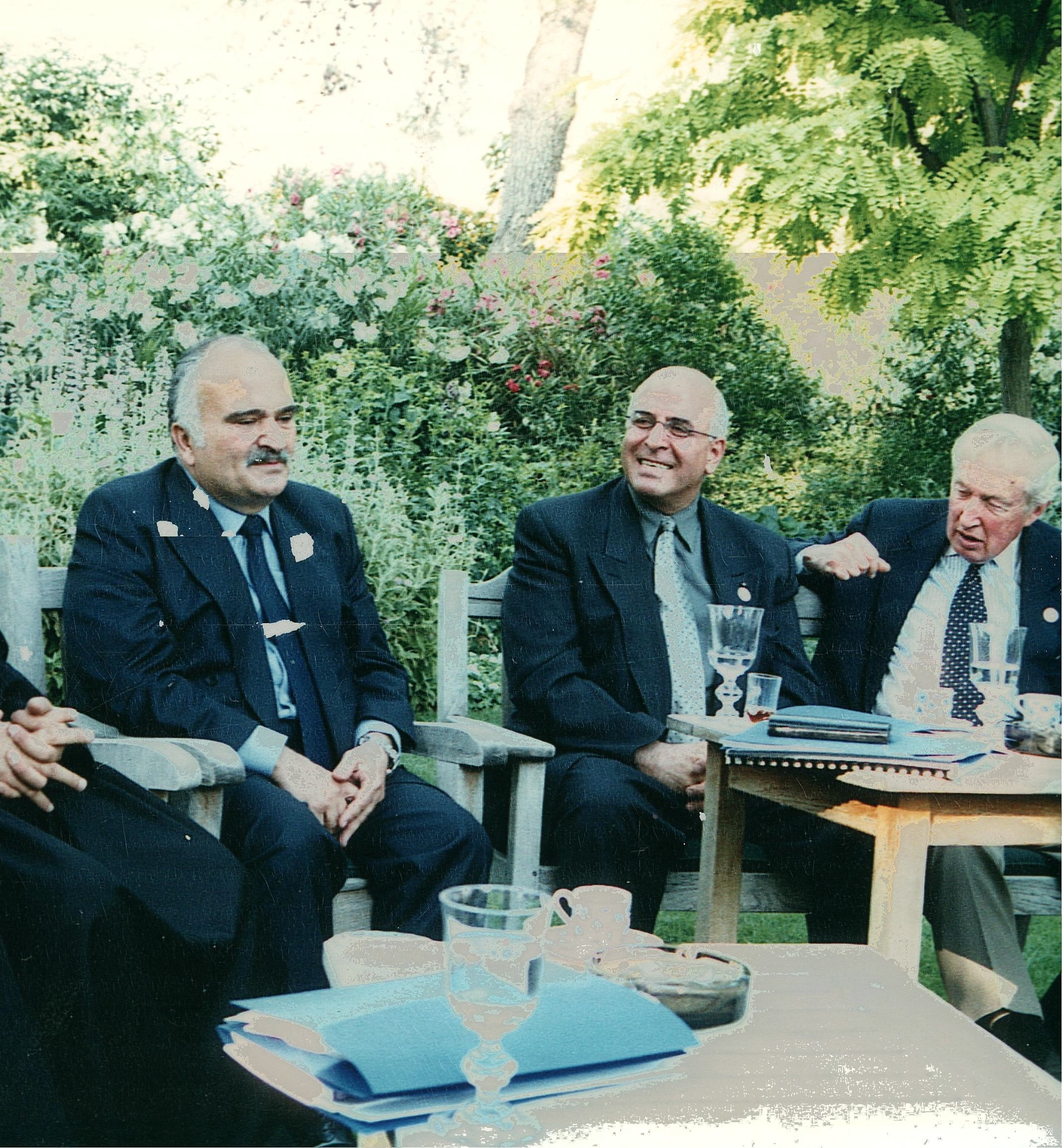
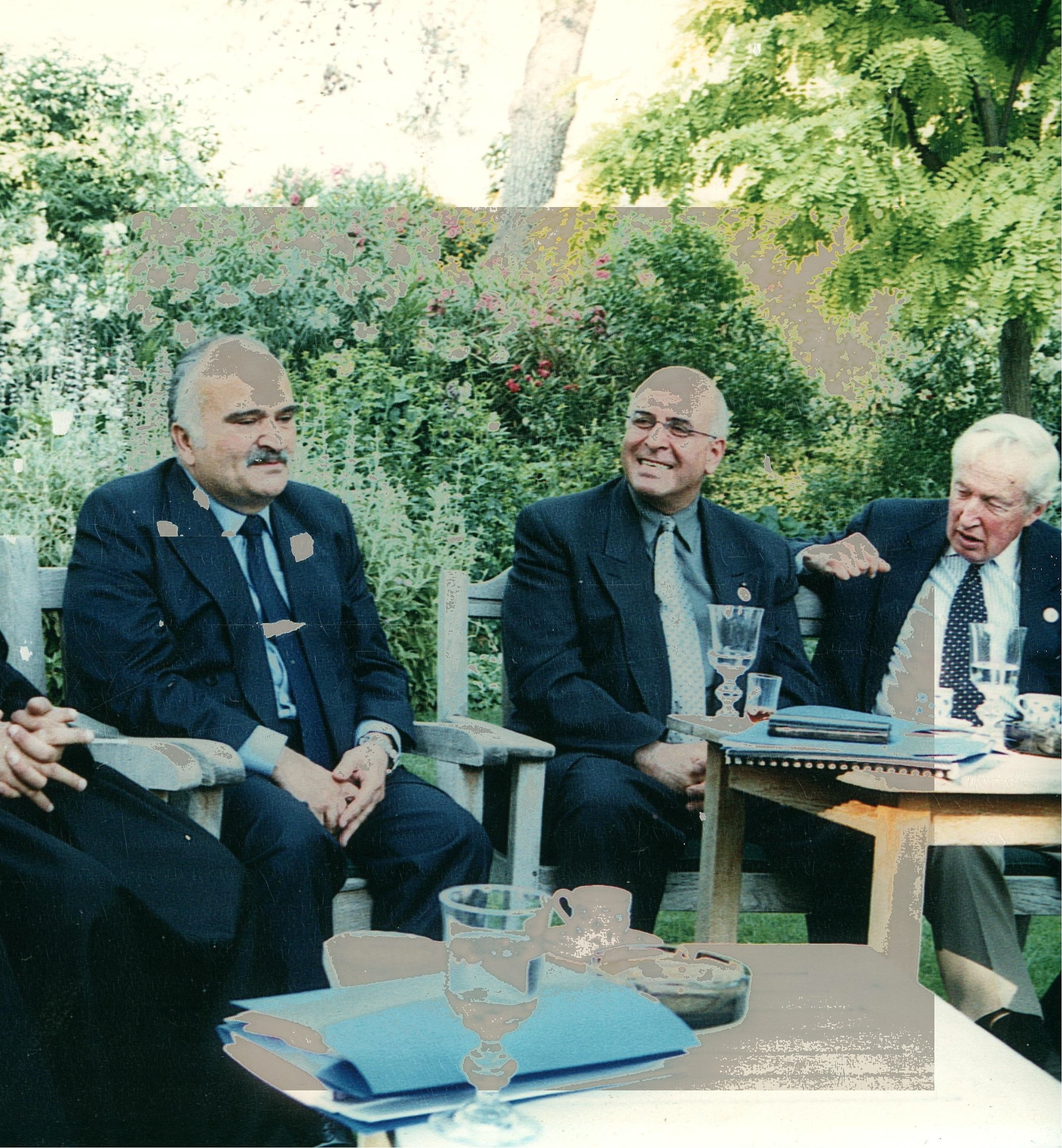
Polish hero gallery per client feedback notes
Enforce 66/33 layout, fix portrait visibility, strengthen suit retouch on Prince Hassan slide, sync 21 slides from docx and live site without duplicates, and correct Hassan caption title.

diff --git a/src/components/Hero.module.css b/src/components/Hero.module.css
@@ -42,8 +42,8 @@
   position: relative;
   z-index: 1;
   display: grid;
-  /* 2/3 gallery, 1/3 portrait — matches live site */
-  grid-template-columns: minmax(0, 2fr) minmax(0, 1fr);
+  /* 2/3 gallery, 1/3 portrait */
+  grid-template-columns: minmax(0, 66.666%) minmax(0, 33.333%);
   align-items: center;
   gap: clamp(1rem, 2vw, 2rem);
   width: min(1440px, 96vw);
@@ -97,7 +97,6 @@
   user-select: none;
   -webkit-user-drag: none;
   filter: drop-shadow(0 20px 56px rgba(0, 0, 0, 0.45));
-  mix-blend-mode: lighten;
 }
 
 @media (max-width: 1024px) {

diff --git a/src/components/HeroSlider.module.css b/src/components/HeroSlider.module.css
@@ -24,8 +24,8 @@
 .viewport {
   position: relative;
   width: 100%;
-  aspect-ratio: 16 / 10;
-  max-height: min(62vh, 560px);
+  aspect-ratio: 4 / 3;
+  max-height: min(68vh, 620px);
   border-radius: 14px;
   overflow: hidden;
   background: linear-gradient(160deg, #0a2248 0%, #051a42 100%);

diff --git a/scripts/fetch-live-hero-slides.py b/scripts/fetch-live-hero-slides.py
@@ -10,7 +10,7 @@ OUT = ROOT / "src/assets/hero-slides"
 MANIFEST = ROOT / "src/data/heroSlides.manifest.json"
 HOME = "https://rateb.rabie.us/"
 
-# Extra slides on live site (beyond docx) — title + URL
+# Live revslider backgrounds not always in docx
 EXTRA_SLIDES = [
     {
         "title": "Official meeting with President Mahmoud Abbas of Palestine",
@@ -28,27 +28,40 @@ EXTRA_SLIDES = [
         "title": "Leadership dialogue with distinguished guests",
         "url": "https://rateb.rabie.us/wp-content/uploads/2026/02/2222222.jpeg",
     },
+    {
+        "title": "Community engagement and humanitarian outreach",
+        "url": "https://rateb.rabie.us/wp-content/uploads/2026/02/Gemini_Generated_Image_6wgbok6wgbok6wgb.png",
+    },
+    {
+        "title": "Advocacy for peace, justice, and dignity",
+        "url": "https://rateb.rabie.us/wp-content/uploads/2026/02/Gemini_Generated_Image_x1ohy9x1ohy9x1oh.png",
+    },
+    {
+        "title": "Institutional leadership and public service",
+        "url": "https://rateb.rabie.us/wp-content/uploads/2025/04/1111113.jpg",
+    },
 ]
 
-# Replace docx slides with higher-res live versions when available
-UPGRADES = {
-    "slide-01.png": "https://rateb.rabie.us/wp-content/uploads/2025/03/WhatsApp-Image-2025-03-24-at-4.12.52-PM-2.jpeg",
-    "slide-02.png": "https://rateb.rabie.us/wp-content/uploads/2025/03/WhatsApp-Image-2025-03-24-at-4.12.52-PM-1-1.jpeg",
-    "slide-03.png": "https://rateb.rabie.us/wp-content/uploads/2025/03/Prince-Hassan.jpg",
-    "slide-07.png": "https://rateb.rabie.us/wp-content/uploads/2025/03/King-Hussain-of-Jordan-1952-to-1999-scaled.jpg",
-    "slide-08.png": "https://rateb.rabie.us/wp-content/uploads/2025/03/King-Abdulla-II-of-Jordan.jpg",
-    "slide-04.png": "https://rateb.rabie.us/wp-content/uploads/2025/03/President-Yaser-Arafat-at-his-Office.jpg",
-    "slide-05.png": "https://rateb.rabie.us/wp-content/uploads/2025/03/President-Yaser-Arafat-presenting-a-Mother-of-Pear-for-HCEF.jpg-2-scaled.jpg",
-    "slide-06.png": "https://rateb.rabie.us/wp-content/uploads/2025/03/Presiden-Yaser-Arafat-Receiving-HCEF-Delgation-.jpg",
-    "slide-10.png": "https://rateb.rabie.us/wp-content/uploads/2025/03/King-Abdulla-II-First-meeting-1-scaled.jpg",
-    "slide-11.png": "https://rateb.rabie.us/wp-content/uploads/2025/03/Honoing-Dr.-Marwan-Muasher-the-former-Deputy-Prime-minister-of-Jordan-4.jpg",
+# slide index (1-based) -> live full-res URL
+UPGRADES_BY_ID = {
+    1: "https://rateb.rabie.us/wp-content/uploads/2025/03/WhatsApp-Image-2025-03-24-at-4.12.52-PM-2.jpeg",
+    2: "https://rateb.rabie.us/wp-content/uploads/2025/03/WhatsApp-Image-2025-03-24-at-4.12.52-PM-1-1.jpeg",
+    3: "https://rateb.rabie.us/wp-content/uploads/2025/03/Prince-Hassan.jpg",
+    4: "https://rateb.rabie.us/wp-content/uploads/2025/03/President-Yaser-Arafat-at-his-Office.jpg",
+    5: "https://rateb.rabie.us/wp-content/uploads/2025/03/President-Yaser-Arafat-presenting-a-Mother-of-Pear-for-HCEF.jpg-2-scaled.jpg",
+    6: "https://rateb.rabie.us/wp-content/uploads/2025/03/Presiden-Yaser-Arafat-Receiving-HCEF-Delgation-.jpg",
+    7: "https://rateb.rabie.us/wp-content/uploads/2025/03/King-Hussain-of-Jordan-1952-to-1999-scaled.jpg",
+    8: "https://rateb.rabie.us/wp-content/uploads/2025/03/King-Abdulla-II-of-Jordan.jpg",
+    10: "https://rateb.rabie.us/wp-content/uploads/2025/03/King-Abdulla-II-First-meeting-1-scaled.jpg",
+    11: "https://rateb.rabie.us/wp-content/uploads/2025/03/Honoing-Dr.-Marwan-Muasher-the-former-Deputy-Prime-minister-of-Jordan-4.jpg",
+    13: "https://rateb.rabie.us/wp-content/uploads/2025/03/Prince-Hassan.jpg",
 }
 
 
 def download(url: str, dest: Path) -> None:
     dest.parent.mkdir(parents=True, exist_ok=True)
     req = urllib.request.Request(url, headers={"User-Agent": "Mozilla/5.0"})
-    with urllib.request.urlopen(req, timeout=60) as resp:
+    with urllib.request.urlopen(req, timeout=90) as resp:
         dest.write_bytes(resp.read())
 
 
@@ -57,46 +70,68 @@ def ext_from_url(url: str) -> str:
     return m.group(0).lower() if m else ".jpg"
 
 
+def scrape_revslider_urls() -> list[str]:
+    req = urllib.request.Request(HOME, headers={"User-Agent": "Mozilla/5.0"})
+    html = urllib.request.urlopen(req, timeout=90).read().decode("utf-8", errors="ignore")
+    urls = re.findall(
+        r'data-lazyload="//rateb\.rabie\.us/wp-content/uploads/([^"]+\.(?:jpg|jpeg|png))"',
+        html,
+        re.I,
+    )
+    seen = set()
+    full = []
+    for path in urls:
+        if "dummy" in path or "rateb2.png" in path or "267_3-bg" in path:
+            continue
+        if path in seen:
+            continue
+        seen.add(path)
+        full.append(f"https://rateb.rabie.us/wp-content/uploads/{path}")
+    return full
+
+
+def title_from_url(url: str) -> str:
+    name = Path(url.split("?")[0]).stem.replace("-", " ").replace("_", " ")
+    return name[:1].upper() + name[1:80]
+
+
 def main():
     manifest = json.loads(MANIFEST.read_text())
 
     for entry in manifest:
-        url = UPGRADES.get(entry["file"])
+        url = UPGRADES_BY_ID.get(entry["id"])
         if not url:
             continue
         ext = ext_from_url(url)
-        new_name = Path(entry["file"]).stem + ext
+        new_name = f"slide-{entry['id']:02d}{ext}"
         dest = OUT / new_name
-        print(f"Upgrade {entry['file']} -> {new_name}")
+        print(f"Upgrade slide {entry['id']:02d} -> {new_name}")
         download(url, dest)
-        if new_name != entry["file"]:
-            old = OUT / entry["file"]
-            if old.exists():
-                old.unlink()
+        old = OUT / entry["file"]
+        if old.exists() and old != dest:
+            old.unlink()
         entry["file"] = new_name
 
     existing_titles = {e["title"] for e in manifest}
+    existing_urls = set()
     next_num = max(int(re.search(r"slide-(\d+)", e["file"]).group(1)) for e in manifest) + 1
-    next_id = max(e["id"] for e in manifest) + 1
+
     for slide in EXTRA_SLIDES:
         if slide["title"] in existing_titles:
             continue
         ext = ext_from_url(slide["url"])
         fn = f"slide-{next_num:02d}{ext}"
-        dest = OUT / fn
-        print(f"Add {fn}: {slide['title'][:50]}...")
-        download(slide["url"], dest)
-        manifest.append({"id": next_id, "title": slide["title"], "file": fn})
+        print(f"Add {fn}: {slide['title'][:55]}...")
+        download(slide["url"], OUT / fn)
+        manifest.append({"title": slide["title"], "file": fn})
         existing_titles.add(slide["title"])
         next_num += 1
-        next_id += 1
 
-    # Re-number ids sequentially
     for i, entry in enumerate(manifest, start=1):
         entry["id"] = i
 
     MANIFEST.write_text(json.dumps(manifest, indent=2) + "\n")
-    print(f"Done — {len(manifest)} slides in manifest")
+    print(f"Done — {len(manifest)} slides")
 
 
 if __name__ == "__main__":

diff --git a/scripts/retouch-slide-suit.py b/scripts/retouch-slide-suit.py
@@ -13,47 +13,52 @@ except ImportError:
 ROOT = Path(__file__).resolve().parents[1]
 SLIDES_DIR = ROOT / "src/assets/hero-slides"
 
-# Slides with outdoor suits / known hotspot issues
-TARGETS = ["slide-03.png", "slide-03.jpg", "slide-15.jpg", "slide-15.jpeg"]
-
 
 def retouch(path: Path) -> None:
     im = Image.open(path).convert("RGB")
     arr = np.array(im, dtype=np.float32)
     h, w = arr.shape[:2]
 
-    brightness = arr.mean(axis=2)
-    # Hotspots: very bright but not blown-out sky (exclude top 25% and very high values)
     y_idx = np.arange(h)[:, None]
-    region = y_idx > int(h * 0.22)
-    hotspot = region & (brightness > 200) & (brightness < 248)
+    x_idx = np.arange(w)[None, :]
+    brightness = arr.mean(axis=2)
 
-    # Slightly darken and add warmth to suit highlights
+    # Subject area: lower 80%, center 75% width (where suits appear)
+    subject = (
+        (y_idx > int(h * 0.18))
+        & (y_idx < int(h * 0.95))
+        & (x_idx > int(w * 0.12))
+        & (x_idx < int(w * 0.88))
+    )
+    hotspot = subject & (brightness > 178) & (brightness < 252)
+
+    # Pull highlights down and warm shadows on navy suits
     for c in range(3):
-        channel = arr[:, :, c]
-        channel[hotspot] *= 0.88
-        arr[:, :, c] = channel
+        ch = arr[:, :, c]
+        ch[hotspot] = ch[hotspot] * 0.82 + (20 if c == 0 else 15 if c == 1 else 10)
+        arr[:, :, c] = ch
 
-    # Gentle local contrast on center crop (where subjects sit)
+    # Second pass: extreme spots only
+    hotspot2 = subject & (brightness > 210) & (brightness < 245)
+    for c in range(3):
+        ch = arr[:, :, c]
+        ch[hotspot2] *= 0.78
+        arr[:, :, c] = ch
+
     x0, x1 = int(w * 0.05), int(w * 0.95)
-    y0, y1 = int(h * 0.15), int(h * 0.92)
-    center = arr[y0:y1, x0:x1]
-    center_img = Image.fromarray(np.clip(center, 0, 255).astype(np.uint8))
-    center_img = center_img.filter(ImageFilter.UnsharpMask(radius=1.2, percent=40, threshold=4))
+    y0, y1 = int(h * 0.12), int(h * 0.94)
+    center = np.clip(arr[y0:y1, x0:x1], 0, 255).astype(np.uint8)
+    center_img = Image.fromarray(center)
+    center_img = center_img.filter(ImageFilter.UnsharpMask(radius=1.0, percent=35, threshold=6))
     arr[y0:y1, x0:x1] = np.array(center_img, dtype=np.float32)
 
     out = Image.fromarray(np.clip(arr, 0, 255).astype(np.uint8))
-    out.save(path, quality=92, optimize=True)
+    out.save(path, quality=94, optimize=True)
     print(f"Retouched {path.name}")
 
 
 def main():
-    for name in TARGETS:
-        p = SLIDES_DIR / name
-        if p.exists():
-            retouch(p)
-    # Also retouch any slide-03.* after upgrade
-    for p in SLIDES_DIR.glob("slide-03.*"):
+    for p in sorted(SLIDES_DIR.glob("slide-03.*")):
         if p.suffix.lower() in {".png", ".jpg", ".jpeg"}:
             retouch(p)
 
